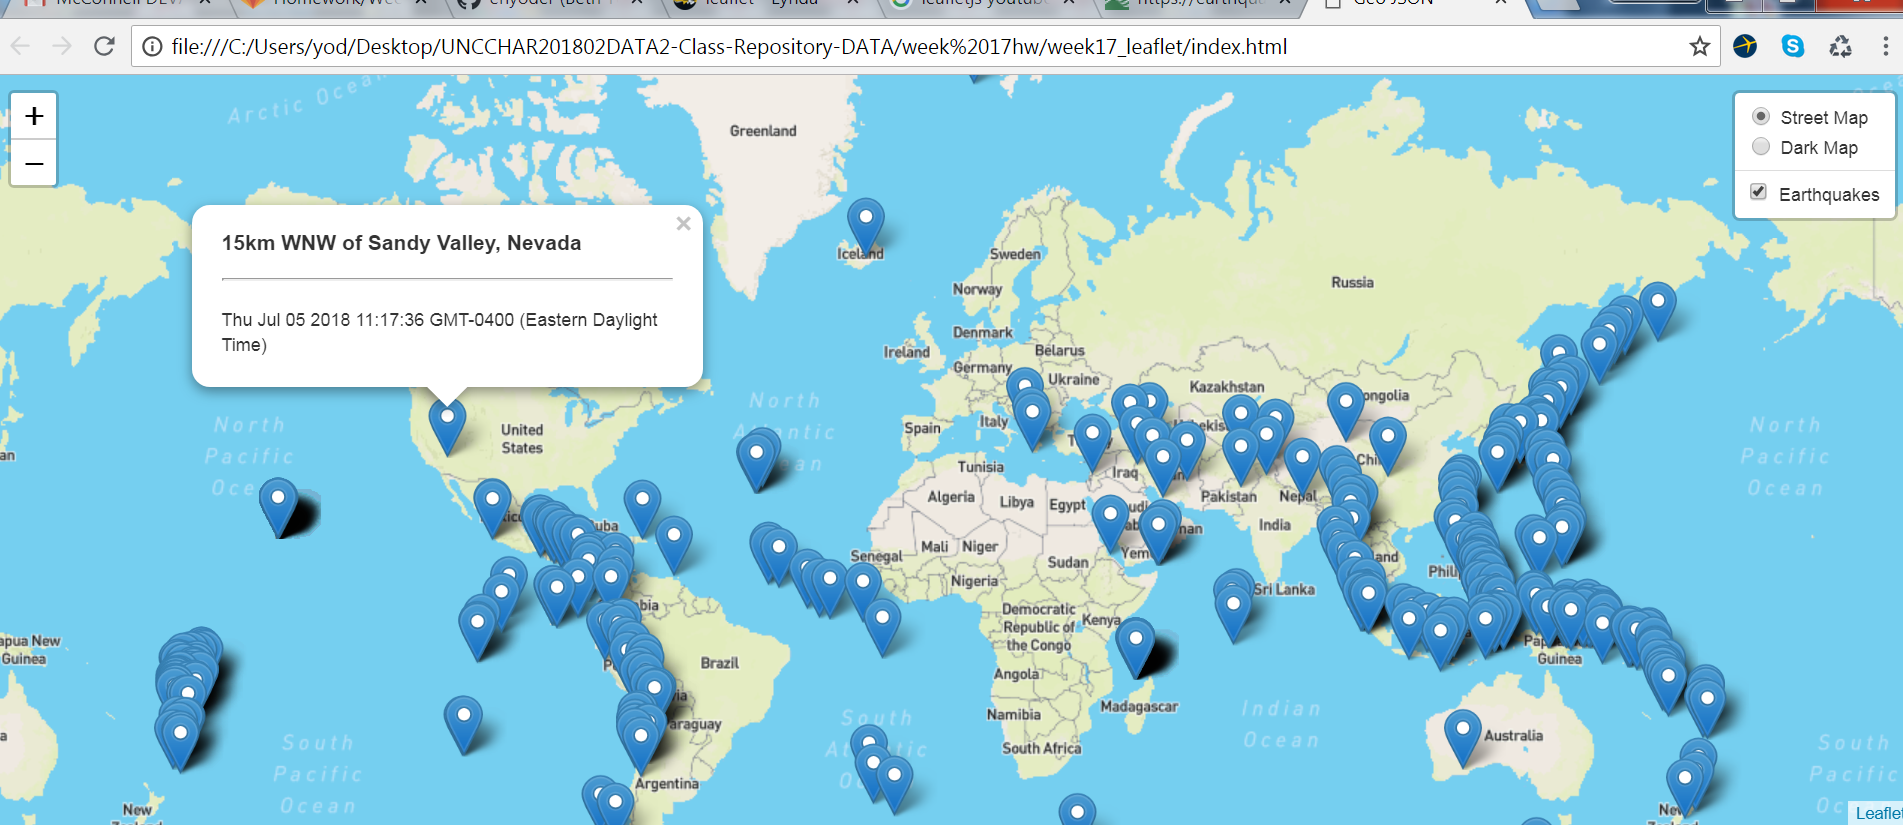
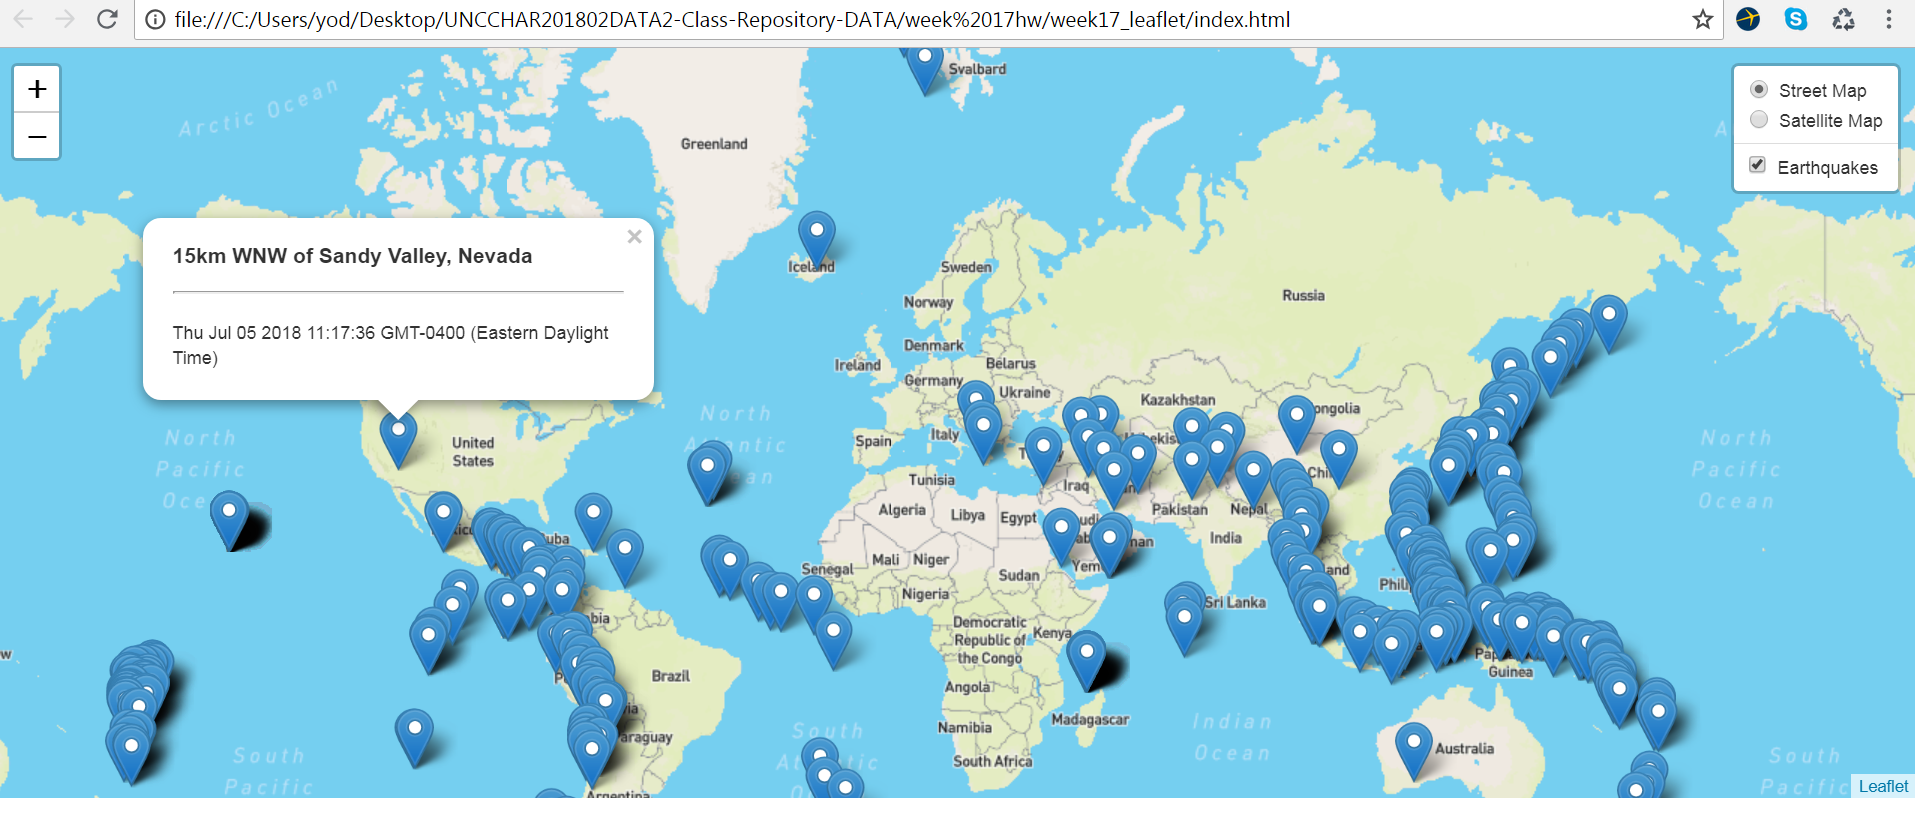
updates

diff --git a/static/logic.js b/static/logic.js
@@ -34,14 +34,14 @@ function createMap(earthquakes) {
     "access_token=pk.eyJ1IjoiZWh5b2RlciIsImEiOiJjamo0eDQ2OGoxbjI1M3ZwZ2UxN3h3cjYwIn0." +
     "KwFUMXyIa1CKzHH5sUAEqQ");
 
-  var darkmap = L.tileLayer("https://api.mapbox.com/styles/v1/mapbox/dark-v9/tiles/256/{z}/{x}/{y}?" +
+  var satmap = L.tileLayer("https://api.mapbox.com/styles/v1/mapbox/satellite-streets-v9/tiles/256/{z}/{x}/{y}?" +
     "access_token=pk.pk.eyJ1IjoiZWh5b2RlciIsImEiOiJjamo0eDQ2OGoxbjI1M3ZwZ2UxN3h3cjYwIn0." +
     "KwFUMXyIa1CKzHH5sUAEqQ");
 
   // Define a baseMaps object to hold our base layers
   var baseMaps = {
     "Street Map": streetmap,
-    "Dark Map": darkmap
+    "Satellite Map": satmap
   };
 
   // Create overlay object to hold our overlay layer
